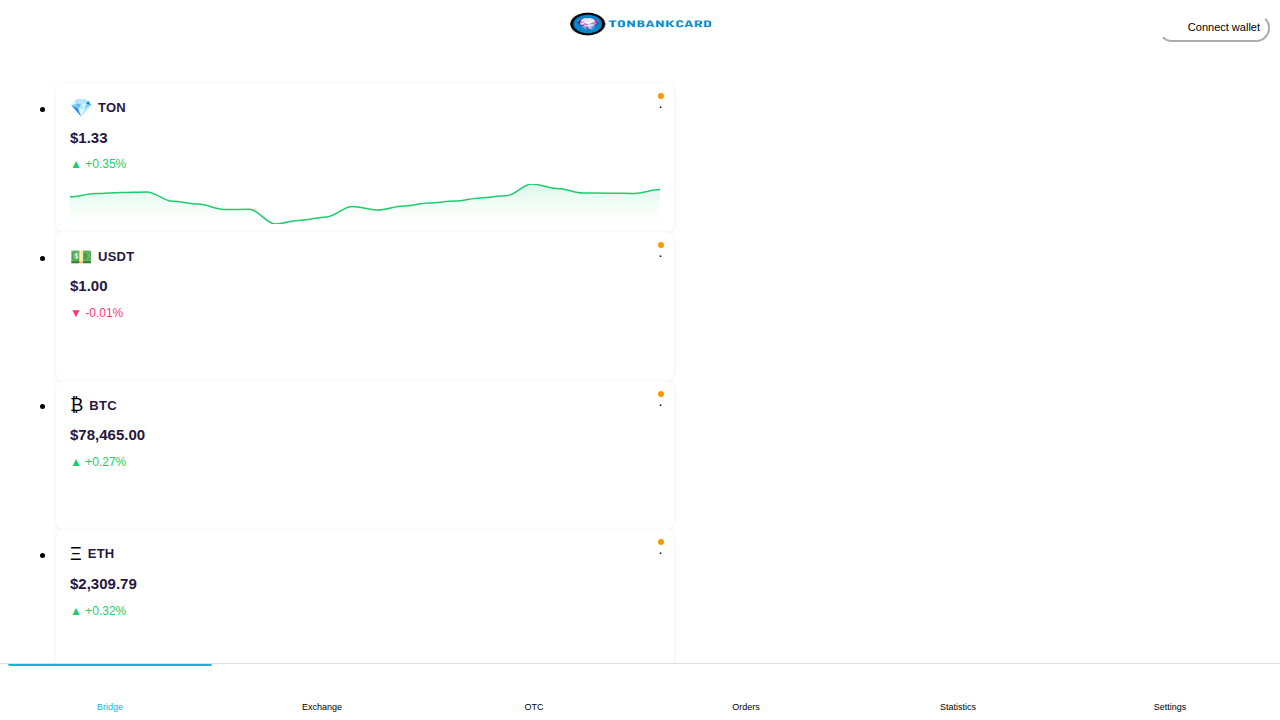
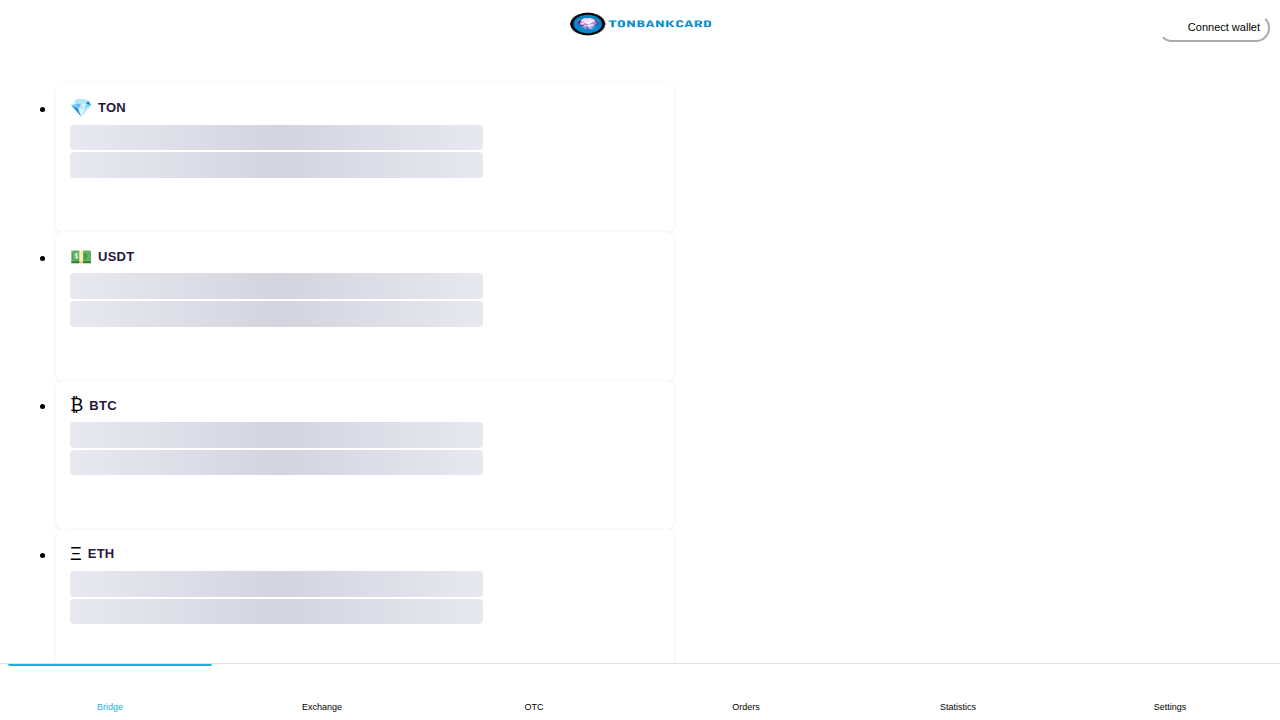
Lazy load TonConnect UI bundle

diff --git a/assets/js/wallet-connect.js b/assets/js/wallet-connect.js
@@ -1,13 +1,15 @@
-// TonConnect 2 wallet integration using @tonconnect/ui CDN build.
-// Relies on window.TON_CONNECT_UI being set by the CDN script loaded before this file.
+// TonConnect 2 wallet integration using the self-hosted @tonconnect/ui build.
 // Exposes window.WalletConnect for use in page templates.
 
 (function () {
     var STORAGE_KEY = 'tc_ton_address';
     var TONCENTER_BASE = 'https://toncenter.com/api/v2/getAddressInformation?address=';
 
-    var _ui = null;          // TonConnectUI instance
-    var _listeners = [];     // callbacks registered by page code
+    var _ui = null;              // TonConnectUI instance
+    var _manifestUrl = null;
+    var _sdkUrl = null;
+    var _sdkLoading = null;
+    var _listeners = [];         // callbacks registered by page code
 
     // ---------- helpers ----------
 
@@ -63,13 +65,45 @@
         }
     }
 
-    // ---------- public API ----------
+    function loadSdk(cb) {
+        if (window.TON_CONNECT_UI && window.TON_CONNECT_UI.TonConnectUI) {
+            cb();
+            return;
+        }
 
-    var WalletConnect = {
-        /** Call once per page after the DOM is ready. */
-        init: function (manifestUrl) {
-            if (_ui) return;
+        if (!_sdkUrl) {
+            console.warn('TonConnectUI SDK URL is not configured');
+            return;
+        }
 
+        if (_sdkLoading) {
+            _sdkLoading.push(cb);
+            return;
+        }
+
+        _sdkLoading = [cb];
+        var script = document.createElement('script');
+        script.src = _sdkUrl;
+        script.async = true;
+        script.onload = function () {
+            var callbacks = _sdkLoading || [];
+            _sdkLoading = null;
+            for (var i = 0; i < callbacks.length; i++) callbacks[i]();
+        };
+        script.onerror = function () {
+            _sdkLoading = null;
+            console.warn('TonConnectUI failed to load');
+        };
+        document.head.appendChild(script);
+    }
+
+    function ensureUi(cb) {
+        if (_ui) {
+            if (cb) cb();
+            return;
+        }
+
+        loadSdk(function () {
             var UI = window.TON_CONNECT_UI && window.TON_CONNECT_UI.TonConnectUI;
             if (!UI) {
                 console.warn('TonConnectUI not loaded');
@@ -77,7 +111,7 @@
             }
 
             _ui = new UI({
-                manifestUrl: manifestUrl,
+                manifestUrl: _manifestUrl,
                 // No buttonRootId — we manage our own button UI
             });
 
@@ -98,6 +132,23 @@
                 }
             });
 
+            if (cb) cb();
+        });
+    }
+
+    // ---------- public API ----------
+
+    var WalletConnect = {
+        /** Call once per page after the DOM is ready. */
+        init: function (manifestUrl, options) {
+            options = options || {};
+            _manifestUrl = manifestUrl;
+            _sdkUrl = options.sdkUrl || _sdkUrl;
+
+            if (!options.lazy) {
+                ensureUi();
+            }
+
             // Restore previously stored address while waiting for the SDK to reconnect
             loadAddress(function (addr) {
                 if (addr) {
@@ -110,14 +161,16 @@
 
         /** Open the TonConnect modal. */
         connect: function () {
-            if (!_ui) return;
-            _ui.openModal();
+            ensureUi(function () {
+                if (_ui) _ui.openModal();
+            });
         },
 
         /** Disconnect the current wallet. */
         disconnect: function () {
-            if (!_ui) return;
-            _ui.disconnect();
+            ensureUi(function () {
+                if (_ui) _ui.disconnect();
+            });
         },
 
         /** Register a callback: fn({ connected, address, balance, restoring? }) */

diff --git a/tests/wallet-connect.spec.js b/tests/wallet-connect.spec.js
@@ -93,10 +93,10 @@ async function setupMocks(page) {
 
 /** Simulate a wallet connecting and wait for the UI to update. */
 async function simulateConnect(page, address) {
+    await page.evaluate(() => { window.WalletConnect.connect(); });
+    await page.waitForFunction(() => typeof window.__tcStatusChange === 'function');
     await page.evaluate((addr) => {
-        if (window.__tcStatusChange) {
-            window.__tcStatusChange({ account: { address: addr } });
-        }
+        window.__tcStatusChange({ account: { address: addr } });
     }, address);
     // Wait for the async fetchBalance → notifyListeners → DOM update to settle
     await page.waitForFunction(
@@ -111,10 +111,10 @@ async function simulateConnect(page, address) {
 
 /** Simulate a wallet connecting on settings page. */
 async function simulateConnectSettings(page, address) {
+    await page.evaluate(() => { window.WalletConnect.connect(); });
+    await page.waitForFunction(() => typeof window.__tcStatusChange === 'function');
     await page.evaluate((addr) => {
-        if (window.__tcStatusChange) {
-            window.__tcStatusChange({ account: { address: addr } });
-        }
+        window.__tcStatusChange({ account: { address: addr } });
     }, address);
     await page.waitForFunction(
         () => {
@@ -214,8 +214,7 @@ test.describe('Wallet Connect — widget pages', () => {
         await page.goto(distUrl('index.html'));
 
         await page.evaluate(() => { window.WalletConnect.connect(); });
-        const called = await page.evaluate(() => window.__tcOpenModalCalled);
-        expect(called).toBe(true);
+        await page.waitForFunction(() => window.__tcOpenModalCalled === true);
     });
 
     test('WalletConnect.shortenAddress trims long addresses to 6+4 chars', async ({ page }) => {